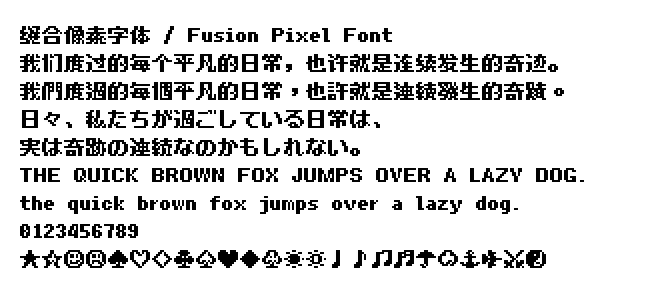
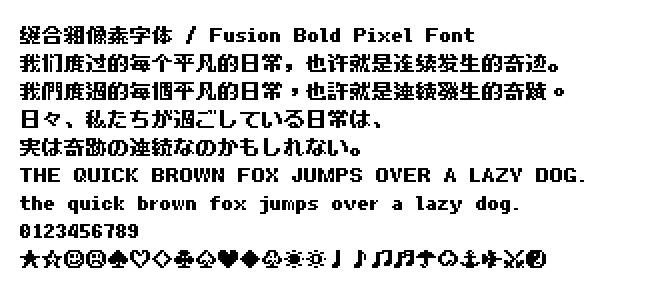
修复文案问题

Changed region(s): [[0.0909, 0.0925, 0.7273, 0.1541]]

diff --git a/assets/templates/index.html b/assets/templates/index.html
@@ -1,5 +1,5 @@
 {% extends "common/base.html" %}
-{% block title %}缝合像素字体 / Fusion Pixel Font{% endblock %}
+{% block title %}缝合粗像素字体 / Fusion Bold Pixel Font{% endblock %}
 {% block style %}
     <style>
         * {
@@ -137,7 +137,7 @@
         {% endfor %}
     </div>
     <div id="page">
-        <h1 class="title" lang="zh-hans">缝合粗像素字体 / Fusion Pixel Font</h1>
+        <h1 class="title" lang="zh-hans">缝合粗像素字体 / Fusion Bold Pixel Font</h1>
         <br>
         <div class="text" lang="zh-hans">★ 开源的泛中日韩像素字体 ★</div>
         <div class="link-group" lang="en">

diff --git a/assets/templates/alphabet.html b/assets/templates/alphabet.html
@@ -1,5 +1,5 @@
 {% extends "common/base.html" %}
-{% block title %}Fusion Pixel - Alphabet {{ font_config.font_size }}px {{ width_mode }}{% endblock %}
+{% block title %}Fusion Bold Pixel - Alphabet {{ font_config.font_size }}px {{ width_mode }}{% endblock %}
 {% block style %}
     <style>
         * {

diff --git a/assets/templates/demo.html b/assets/templates/demo.html
@@ -1,5 +1,5 @@
 {% extends "common/base.html" %}
-{% block title %}Fusion Pixel - Demo {{ font_config.font_size }}px{% endblock %}
+{% block title %}Fusion Bold Pixel - Demo {{ font_config.font_size }}px{% endblock %}
 {% block style %}
     <style>
         * {

diff --git a/assets/templates/demo-content.html b/assets/templates/demo-content.html
@@ -1,5 +1,5 @@
 <div lang="zh-hans">
-    <h1 class="title">缝合像素字体 / Fusion Pixel Font</h1>
+    <h1 class="title">缝合粗像素字体 / Fusion Bold Pixel Font</h1>
     <p class="content">★ 开源的泛中日韩像素字体 ★</p>
 </div>
 

diff --git a/assets/templates/playground.html b/assets/templates/playground.html
@@ -1,5 +1,5 @@
 {% extends "common/base.html" %}
-{% block title %}Fusion Pixel - Playground{% endblock %}
+{% block title %}Fusion Bold Pixel - Playground{% endblock %}
 {% block style %}
     <style>
         * {

diff --git a/tools/services/image_service.py b/tools/services/image_service.py
@@ -48,7 +48,7 @@ def make_preview_image(font_size: FontSize):
     line_height = configs.font_configs[font_size].line_height
 
     image = Image.new('RGBA', ((font_size + 1) * 30, font_size * 2 + line_height * 9), (255, 255, 255, 255))
-    _draw_text(image, (font_size, font_size), '缝合像素字体 / Fusion Pixel Font', font_zh_hans)
+    _draw_text(image, (font_size, font_size), '缝合粗像素字体 / Fusion Bold Pixel Font', font_zh_hans)
     _draw_text(image, (font_size, font_size + line_height), '我们度过的每个平凡的日常，也许就是连续发生的奇迹。', font_zh_hans)
     _draw_text(image, (font_size, font_size + line_height * 2), '我們度過的每個平凡的日常，也許就是連續發生的奇蹟。', font_zh_hant)
     _draw_text(image, (font_size, font_size + line_height * 3), '日々、私たちが過ごしている日常は、', font_ja)

diff --git a/tools/services/info_service.py b/tools/services/info_service.py
@@ -122,7 +122,7 @@ def make_info(design_context: DesignContext, width_mode: WidthMode):
     path_define.outputs_dir.mkdir(parents=True, exist_ok=True)
     file_path = path_define.outputs_dir.joinpath(f'info-{design_context.font_size}px-{width_mode}.md')
     with file_path.open('w', encoding='utf-8') as file:
-        file.write(f'# Fusion Pixel {design_context.font_size}px {'等宽模式' if width_mode == 'monospaced' else '比例模式'}\n')
+        file.write(f'# Fusion Bold Pixel {design_context.font_size}px {'等宽模式' if width_mode == 'monospaced' else '比例模式'}\n')
         file.write('\n')
         file.write('## 基本信息\n')
         file.write('\n')

diff --git a/docs/info-10px-monospaced.md b/docs/info-10px-monospaced.md
@@ -1,11 +1,11 @@
-# Fusion Pixel 10px 等宽模式
+# Fusion Bold Pixel 10px 等宽模式
 
 ## 基本信息
 
 | 属性 | 值 |
 |---|---|
 | 版本号 | 2026.04.16 |
-| 字符总数 | 24704 |
+| 字符总数 | 24731 |
 
 ## Unicode 字符分布
 
@@ -42,7 +42,7 @@ Unicode 版本：17.0.0
 | 3200 ~ 32FF | Enclosed CJK Letters and Months | 包围中日韩字母与月份 | 40 / 255 | 215 | 15.69% 🚧 |
 | 3300 ~ 33FF | CJK Compatibility | 中日韩兼容 | 60 / 256 | 196 | 23.44% 🚧 |
 | 3400 ~ 4DBF | CJK Unified Ideographs Extension A | 中日韩统一表意文字扩充 A | 10 / 6592 | 6582 | 0.15% 🚧 |
-| 4E00 ~ 9FFF | CJK Unified Ideographs | 中日韩统一表意文字 | 10532 / 20992 | 10460 | 50.17% 🚧 |
+| 4E00 ~ 9FFF | CJK Unified Ideographs | 中日韩统一表意文字 | 10559 / 20992 | 10433 | 50.30% 🚧 |
 | A720 ~ A7FF | Latin Extended-D | 拉丁扩充-D | 7 / 204 | 197 | 3.43% 🚧 |
 | AC00 ~ D7AF | Hangul Syllables | 谚文音节 | 11172 / 11172 | 0 | 100.00% 🚩 |
 | E000 ~ F8FF | Private Use Area | 私用区域 | 238 / 0 | 0 | 100.00% 🚩 |
@@ -62,9 +62,9 @@ Unicode 版本：17.0.0
 | 区块名称 | 完成数 | 缺失数 | 进度 |
 |---|---:|---:|---:|
 | 一级汉字 | 3755 / 3755 | 0 | 100.00% 🚩 |
-| 二级汉字 | 2095 / 3008 | 913 | 69.65% 🚧 |
+| 二级汉字 | 2122 / 3008 | 886 | 70.55% 🚧 |
 | 其他字符 | 537 / 682 | 145 | 78.74% 🚧 |
-| 总计 | 6387 / 7445 | 1058 | 85.79% 🚧 |
+| 总计 | 6414 / 7445 | 1031 | 86.15% 🚧 |
 
 ## Big5 字符分布
 
@@ -73,9 +73,9 @@ Unicode 版本：17.0.0
 | 区块名称 | 完成数 | 缺失数 | 进度 |
 |---|---:|---:|---:|
 | 常用汉字 | 5401 / 5401 | 0 | 100.00% 🚩 |
-| 次常用汉字 | 2136 / 7652 | 5516 | 27.91% 🚧 |
+| 次常用汉字 | 2137 / 7652 | 5515 | 27.93% 🚧 |
 | 其他字符 | 297 / 408 | 111 | 72.79% 🚧 |
-| 总计 | 7834 / 13461 | 5627 | 58.20% 🚧 |
+| 总计 | 7835 / 13461 | 5626 | 58.21% 🚧 |
 
 ## Shift-JIS 字符分布
 

diff --git a/docs/info-10px-proportional.md b/docs/info-10px-proportional.md
@@ -1,11 +1,11 @@
-# Fusion Pixel 10px 比例模式
+# Fusion Bold Pixel 10px 比例模式
 
 ## 基本信息
 
 | 属性 | 值 |
 |---|---|
 | 版本号 | 2026.04.16 |
-| 字符总数 | 24973 |
+| 字符总数 | 25000 |
 
 ## Unicode 字符分布
 
@@ -44,7 +44,7 @@ Unicode 版本：17.0.0
 | 3200 ~ 32FF | Enclosed CJK Letters and Months | 包围中日韩字母与月份 | 40 / 255 | 215 | 15.69% 🚧 |
 | 3300 ~ 33FF | CJK Compatibility | 中日韩兼容 | 60 / 256 | 196 | 23.44% 🚧 |
 | 3400 ~ 4DBF | CJK Unified Ideographs Extension A | 中日韩统一表意文字扩充 A | 10 / 6592 | 6582 | 0.15% 🚧 |
-| 4E00 ~ 9FFF | CJK Unified Ideographs | 中日韩统一表意文字 | 10532 / 20992 | 10460 | 50.17% 🚧 |
+| 4E00 ~ 9FFF | CJK Unified Ideographs | 中日韩统一表意文字 | 10559 / 20992 | 10433 | 50.30% 🚧 |
 | A720 ~ A7FF | Latin Extended-D | 拉丁扩充-D | 7 / 204 | 197 | 3.43% 🚧 |
 | AC00 ~ D7AF | Hangul Syllables | 谚文音节 | 11172 / 11172 | 0 | 100.00% 🚩 |
 | E000 ~ F8FF | Private Use Area | 私用区域 | 238 / 0 | 0 | 100.00% 🚩 |
@@ -64,9 +64,9 @@ Unicode 版本：17.0.0
 | 区块名称 | 完成数 | 缺失数 | 进度 |
 |---|---:|---:|---:|
 | 一级汉字 | 3755 / 3755 | 0 | 100.00% 🚩 |
-| 二级汉字 | 2095 / 3008 | 913 | 69.65% 🚧 |
+| 二级汉字 | 2122 / 3008 | 886 | 70.55% 🚧 |
 | 其他字符 | 651 / 682 | 31 | 95.45% 🚧 |
-| 总计 | 6501 / 7445 | 944 | 87.32% 🚧 |
+| 总计 | 6528 / 7445 | 917 | 87.68% 🚧 |
 
 ## Big5 字符分布
 
@@ -75,9 +75,9 @@ Unicode 版本：17.0.0
 | 区块名称 | 完成数 | 缺失数 | 进度 |
 |---|---:|---:|---:|
 | 常用汉字 | 5401 / 5401 | 0 | 100.00% 🚩 |
-| 次常用汉字 | 2136 / 7652 | 5516 | 27.91% 🚧 |
+| 次常用汉字 | 2137 / 7652 | 5515 | 27.93% 🚧 |
 | 其他字符 | 345 / 408 | 63 | 84.56% 🚧 |
-| 总计 | 7882 / 13461 | 5579 | 58.55% 🚧 |
+| 总计 | 7883 / 13461 | 5578 | 58.56% 🚧 |
 
 ## Shift-JIS 字符分布
 

diff --git a/README.md b/README.md
@@ -8,13 +8,11 @@
 [![Discord](https://img.shields.io/badge/discord-像素字体工房-4E5AF0?style=flat-square&logo=discord&logoColor=white)](https://discord.gg/3GKtPKtjdU)
 [![QQ Group](https://img.shields.io/badge/QQ群-像素字体工房-brightgreen?style=flat-square&logo=qq&logoColor=white)](https://qm.qq.com/q/jPk8sSitUI)
 
-[「缝合像素字体」](https://github.com/TakWolf/fusion-pixel-font) 的算法粗体版本。
+[「缝合像素字体」](https://github.com/TakWolf/fusion-pixel-font) 的算法粗体版本，黑体风格。
 
 > [!WARNING]
 > 
-> 这不是一个正式项目，只是一个用于测试的项目，旨在提供思路和验证概念。
-> 
-> 本项目预计不会得到持续性维护。
+> 这不是一个正式项目，仅用于测试，旨在提供思路和验证概念。
 > 
 
 ## 预览
@@ -69,7 +67,7 @@ result_bitmap = solid_bitmap.minus(shadow_bitmap)
 12px * 12px -> 12px * 13px
 ```
 
-此时，等宽模式将不再对其。（原始为 6px * 2 = 12px，变换后变为 7px * 2 != 13px，差 1 像素）
+此时，等宽模式将不再对齐（原始为 6px * 2 = 12px，变换后变为 7px * 2 != 13px，差 1px）。
 
 ## 笔者观点
 

diff --git a/docs/info-12px-monospaced.md b/docs/info-12px-monospaced.md
@@ -1,4 +1,4 @@
-# Fusion Pixel 12px 等宽模式
+# Fusion Bold Pixel 12px 等宽模式
 
 ## 基本信息
 

diff --git a/docs/info-12px-proportional.md b/docs/info-12px-proportional.md
@@ -1,4 +1,4 @@
-# Fusion Pixel 12px 比例模式
+# Fusion Bold Pixel 12px 比例模式
 
 ## 基本信息
 
